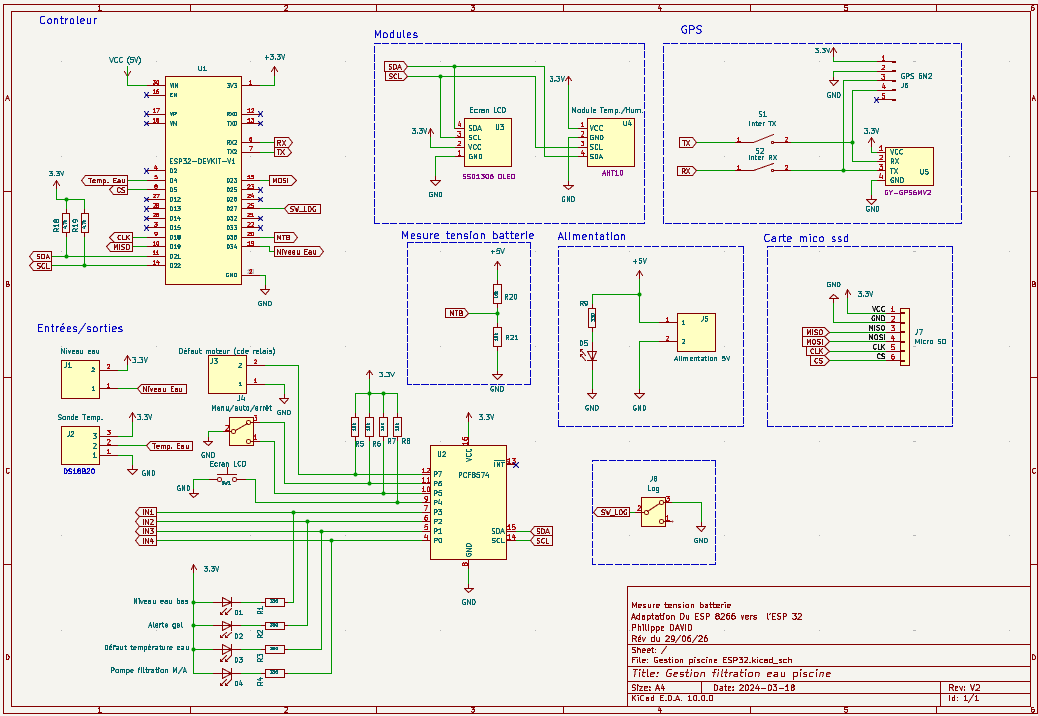
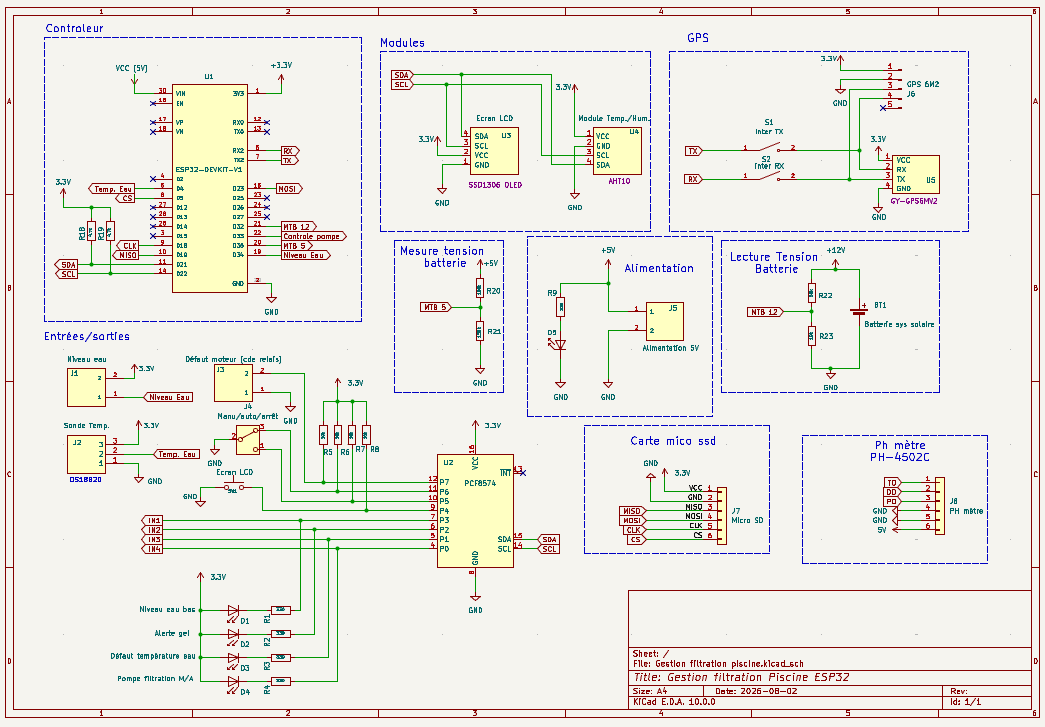
README : affiche le nouveau schema et propose la version SVG
Le README pointait sur docs/schema-electronique.png, qui montrait encore
l'ancienne version. Le nouveau schema remplace donc ce fichier plutot que de
cohabiter avec lui sous un nom versionne : un seul fichier de reference, jamais
de doute sur celui qui fait foi.

Le PNG reste l'image affichee (58 Ko, rendu fiable sur GitHub) et le SVG est
propose en lien juste en dessous (968 Ko, vectoriel, zoomable sans perte pour
lire les valeurs de composants).

Description des blocs anticipes mise a jour : le pH-metre PH-4502C figure
desormais au schema.

diff --git a/README.md b/README.md
@@ -78,10 +78,15 @@ l'interrupteur de mode (MANU/AUTO), P7 lit le retour de défaut moteur.
 
 ![Schéma électronique du montage](docs/schema-electronique.png)
 
-Schéma KiCad complet du montage. Il inclut deux blocs anticipés dans la
-conception (carte micro SD, interrupteur de logs série) qui sont déjà câblés
-mais **pas encore pris en charge par le firmware actuel** — schéma établi en
-amont de la réalisation, comme il est d'usage en électronique.
+Schéma KiCad complet du montage. Il inclut des blocs anticipés dans la
+conception (carte micro SD, pH-mètre PH-4502C, interrupteurs de logs série)
+qui sont déjà câblés mais **pas encore pris en charge par le firmware
+actuel** — schéma établi en amont de la réalisation, comme il est d'usage en
+électronique.
+
+Une [version vectorielle au format SVG](docs/Gestion%20filtration%20piscine.svg)
+est également disponible : elle se zoome sans perte de qualité, ce qui permet de
+lire les références et les valeurs des composants.
 
 ## Organisation des fichiers
 
